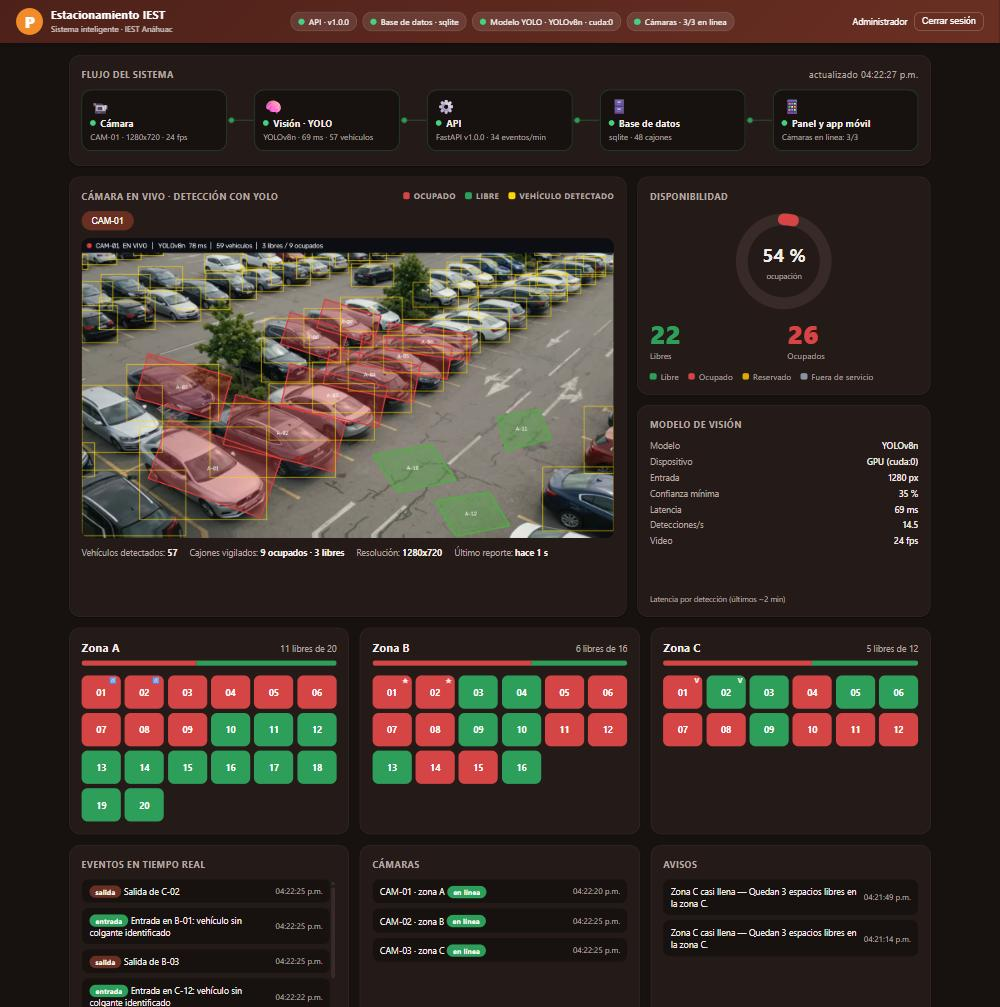
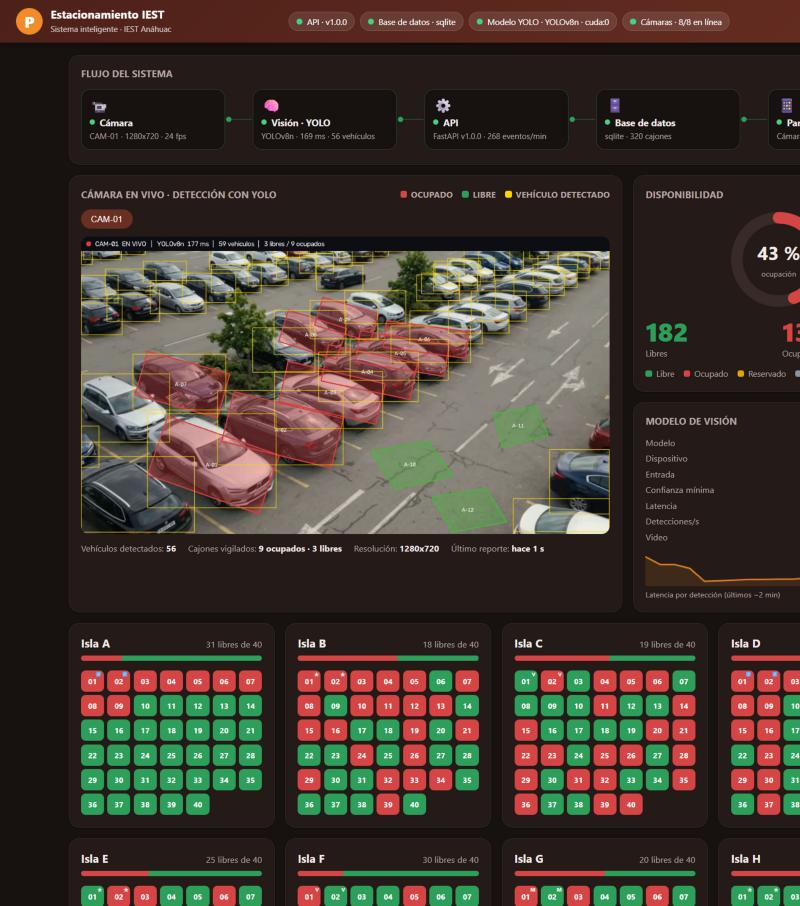
feat: el estacionamiento pasa a 8 islas de 40 cajones
Datos iniciales con 8 islas (A a H) de 40 cajones cada una (320 en total) y una
cámara por isla (CAM-01 a CAM-08). La app móvil, el panel y los avisos hablan
de islas; el panel ajusta la cuadrícula a 40 cajones por isla. Pruebas y
documentación actualizadas.

diff --git a/api/app/static/panel.html b/api/app/static/panel.html
@@ -78,16 +78,16 @@
   .modelo canvas { width: 100%; height: 54px; margin-top: 12px; display: block; }
 
   /* ---------- mapa ---------- */
-  .zonas { display: grid; grid-template-columns: repeat(auto-fit, minmax(300px, 1fr)); gap: 16px; }
+  .zonas { display: grid; grid-template-columns: repeat(auto-fit, minmax(290px, 1fr)); gap: 16px; }
   .zona-cab { display: flex; justify-content: space-between; align-items: baseline; margin-bottom: 4px; }
   .zona-cab h3 { font-size: 17px; }
   .zona-cab span { font-size: 13px; color: var(--suave); }
   .barra { height: 8px; border-radius: 5px; background: var(--borde); overflow: hidden; display: flex; margin: 8px 0 14px; }
   .barra i { display: block; height: 100%; transition: width .6s; }
-  .cajones { display: grid; grid-template-columns: repeat(auto-fill, minmax(50px, 1fr)); gap: 6px; }
-  .cajon { height: 50px; border-radius: 9px; color: #fff; font-weight: 700; font-size: 13px; display: grid; place-items: center; position: relative; transition: background .4s, transform .2s; cursor: default; }
+  .cajones { display: grid; grid-template-columns: repeat(auto-fill, minmax(32px, 1fr)); gap: 5px; }
+  .cajon { height: 32px; border-radius: 7px; color: #fff; font-weight: 700; font-size: 11.5px; display: grid; place-items: center; position: relative; transition: background .4s, transform .2s; cursor: default; }
   .cajon:hover { transform: scale(1.06); }
-  .cajon small { position: absolute; top: 2px; right: 5px; font-size: 10px; opacity: .9; }
+  .cajon small { position: absolute; top: 0; right: 3px; font-size: 8px; opacity: .9; }
   .libre { background: var(--libre); } .ocupado { background: var(--ocupado); } .reservado { background: var(--reservado); } .fuera_de_servicio { background: var(--fuera); }
   .cajon.cambio { animation: destello 2.4s ease-out; }
   @keyframes destello { 0% { box-shadow: 0 0 0 0 var(--naranja); transform: scale(1.18); } 60% { box-shadow: 0 0 0 9px #f28c2800; } 100% { transform: scale(1); } }
@@ -288,7 +288,7 @@ function pintarEspacios(espacios) {
   const zonas = $("zonas"); zonas.replaceChildren();
   for (const z of [...new Set(espacios.map((e) => e.zona))].sort()) {
     const lista = espacios.filter((e) => e.zona === z), lib = lista.filter((e) => e.estado === "libre").length, oc = lista.filter((e) => e.estado === "ocupado").length;
-    const t = el("div", "tarjeta"); const cab = el("div", "zona-cab"); cab.append(el("h3", null, "Zona " + z), el("span", null, `${lib} libres de ${lista.length}`)); t.append(cab);
+    const t = el("div", "tarjeta"); const cab = el("div", "zona-cab"); cab.append(el("h3", null, "Isla " + z), el("span", null, `${lib} libres de ${lista.length}`)); t.append(cab);
     const barra = el("div", "barra"); const b1 = el("i"); b1.style.cssText = `width:${(oc / lista.length) * 100}%;background:var(--ocupado)`; const b2 = el("i"); b2.style.cssText = `width:${(lib / lista.length) * 100}%;background:var(--libre)`; barra.append(b1, b2); t.append(barra);
     const g = el("div", "cajones");
     for (const e of lista) {
@@ -312,7 +312,7 @@ function pintarListas(avisos, eventos, camaras) {
     tarjeta("Eventos en tiempo real", lis, "Aún no hay eventos.");
   }
   if (camaras) {
-    tarjeta("Cámaras", camaras.map((c) => { const li = el("li"); const ins = el("span", "insignia", c.estado === "en_linea" ? "en línea" : "desconectada"); ins.style.background = c.estado === "en_linea" ? "#2e9e5b" : "#d64545"; const iz = el("span", null, `${c.camara} · zona ${c.zona} `); iz.append(ins); li.append(iz, el("time", null, hora(c.ultimaSenal))); return li; }), "Sin cámaras.");
+    tarjeta("Cámaras", camaras.map((c) => { const li = el("li"); const ins = el("span", "insignia", c.estado === "en_linea" ? "en línea" : "desconectada"); ins.style.background = c.estado === "en_linea" ? "#2e9e5b" : "#d64545"; const iz = el("span", null, `${c.camara} · isla ${c.zona} `); iz.append(ins); li.append(iz, el("time", null, hora(c.ultimaSenal))); return li; }), "Sin cámaras.");
   }
   tarjeta("Avisos", avisos.slice(0, 8).map((a) => { const li = el("li"); li.append(el("span", null, a.titulo + " — " + a.mensaje), el("time", null, hora(a.fecha))); return li; }), "No hay avisos.");
 }
@@ -322,7 +322,7 @@ async function cicloRapido() {   // cada 2 s: estado del sistema y mapa
   const [yo, estado, espacios] = await Promise.all([api("/auth/me"), api("/sistema/estado"), api("/espacios")]);
   $("quien").textContent = yo.nombre; $("salir").hidden = false;
   pintarChips(estado); pintarFlujo(estado); pintarVideo(estado); pintarEspacios(espacios);
-  $("pie").textContent = "Actualizado " + new Date().toLocaleTimeString("es-MX") + " · el mapa se refresca cada 2 s";
+  $("pie").textContent = "Actualizado " + new Date().toLocaleTimeString("es-MX") + " · el mapa de las islas se refresca cada 2 s";
 }
 async function cicloLento() {    // cada 4 s: listas
   const [avisos, eventos, camaras] = await Promise.all([api("/notificaciones"), api("/eventos?limit=14"), api("/camaras")]);

diff --git a/mobile/src/data/mock.ts b/mobile/src/data/mock.ts
@@ -1,10 +1,8 @@
 import { AlertaCamara, Espacio, Evento, EstadoEspacio, Notificacion, TipoEspacio, Usuario, Vehiculo } from '../types';
 
-const zonas = [
-  { zona: 'A', cantidad: 20, tipoEspecial: 'discapacidad' as TipoEspacio },
-  { zona: 'B', cantidad: 16, tipoEspecial: 'directivo' as TipoEspacio },
-  { zona: 'C', cantidad: 12, tipoEspecial: 'visitante' as TipoEspacio },
-];
+// 8 islas de 40 cajones (igual que la base de datos inicial); los 2 primeros de cada isla son de un tipo especial.
+const especial: TipoEspacio[] = ['discapacidad', 'directivo', 'visitante', 'discapacidad', 'directivo', 'visitante', 'motocicleta', 'directivo'];
+const zonas = 'ABCDEFGH'.split('').map((zona, i) => ({ zona, cantidad: 40, tipoEspecial: especial[i] }));
 
 // Estado pseudo-aleatorio pero estable (para que la UI no cambie en cada render)
 const estadoDe = (n: number): EstadoEspacio => {
@@ -42,7 +40,7 @@ export const vehiculos: Vehiculo[] = [
 ];
 
 export const notificaciones: Notificacion[] = [
-  { id: 1, titulo: 'Zona A casi llena', mensaje: 'Quedan menos de 3 espacios libres en la zona A.', fecha: new Date(Date.now() - 12 * 60_000).toISOString(), leida: false },
+  { id: 1, titulo: 'Isla A casi llena', mensaje: 'Quedan menos de 3 espacios libres en la isla A.', fecha: new Date(Date.now() - 12 * 60_000).toISOString(), leida: false },
   { id: 2, titulo: 'Espacio asignado', mensaje: 'Tu espacio asignado es A-03.', fecha: new Date(Date.now() - 26 * 3600_000).toISOString(), leida: true },
 ];
 
@@ -53,8 +51,10 @@ export const eventos: Evento[] = [
   { id: 4, tipo: 'salida', descripcion: 'Salida vehículo colgante IEST-001873', fecha: new Date(Date.now() - 55 * 60_000).toISOString() },
 ];
 
-export const alertasCamara: AlertaCamara[] = [
-  { id: 1, camara: 'CAM-01', zona: 'A', estado: 'en_linea', ultimaSenal: new Date().toISOString() },
-  { id: 2, camara: 'CAM-02', zona: 'B', estado: 'en_linea', ultimaSenal: new Date().toISOString() },
-  { id: 3, camara: 'CAM-03', zona: 'C', estado: 'desconectada', ultimaSenal: new Date(Date.now() - 3 * 3600_000).toISOString() },
-];
+export const alertasCamara: AlertaCamara[] = 'ABCDEFGH'.split('').map((zona, i) => ({
+  id: i + 1,
+  camara: `CAM-${String(i + 1).padStart(2, '0')}`,
+  zona,
+  estado: i === 2 ? 'desconectada' : 'en_linea',
+  ultimaSenal: new Date(Date.now() - (i === 2 ? 3 * 3600_000 : 0)).toISOString(),
+}));

diff --git a/mobile/src/screens/ZonesScreen.tsx b/mobile/src/screens/ZonesScreen.tsx
@@ -28,7 +28,7 @@ export default function ZonesScreen() {
             <View style={s.chips}>
               {zonas.map((z) => (
                 <Pressable key={z} onPress={() => setZona(z)} style={[s.chip, z === actual && s.chipOn]}>
-                  <Text style={[s.chipText, z === actual && { color: '#fff' }]}>Zona {z}</Text>
+                  <Text style={[s.chipText, z === actual && { color: '#fff' }]}>Isla {z}</Text>
                 </Pressable>
               ))}
             </View>
@@ -51,12 +51,12 @@ export default function ZonesScreen() {
 }
 
 const s = StyleSheet.create({
-  chips: { flexDirection: 'row', gap: spacing.sm },
+  chips: { flexDirection: 'row', flexWrap: 'wrap', gap: spacing.sm },
   chip: { paddingHorizontal: 16, paddingVertical: 8, borderRadius: 999, backgroundColor: colors.card, borderWidth: 1, borderColor: colors.border },
   chipOn: { backgroundColor: colors.primary, borderColor: colors.primary },
   chipText: { fontWeight: '600', color: colors.text },
   grid: { flexDirection: 'row', flexWrap: 'wrap', gap: spacing.sm },
-  cell: { width: 56, height: 64, borderRadius: radius.sm, alignItems: 'center', justifyContent: 'center' },
+  cell: { width: 40, height: 46, borderRadius: radius.sm, alignItems: 'center', justifyContent: 'center' },
   cellNum: { color: '#fff', fontWeight: '800', fontSize: 16 },
   cellTipo: { color: '#fff', fontSize: 12 },
 });

diff --git a/mobile/src/navigation/index.tsx b/mobile/src/navigation/index.tsx
@@ -39,7 +39,7 @@ export default function Navigation() {
         }}
       >
         <Tab.Screen name="Inicio" component={HomeScreen} options={{ tabBarIcon: icon('speedometer-outline') }} />
-        <Tab.Screen name="Zonas" component={ZonesScreen} options={{ tabBarIcon: icon('grid-outline') }} />
+        <Tab.Screen name="Islas" component={ZonesScreen} options={{ tabBarIcon: icon('grid-outline') }} />
         <Tab.Screen name="Avisos" component={NotificationsScreen} options={{ tabBarIcon: icon('notifications-outline') }} />
         <Tab.Screen name="Mi cuenta" component={VehicleScreen} options={{ tabBarIcon: icon('car-outline') }} />
         {esAdmin(usuario) ? <Tab.Screen name="Admin" component={AdminScreen} options={{ tabBarIcon: icon('shield-checkmark-outline') }} /> : null}

diff --git a/mobile/src/screens/HomeScreen.tsx b/mobile/src/screens/HomeScreen.tsx
@@ -33,11 +33,11 @@ export default function HomeScreen() {
                 <Text style={s.assigned}>{usuario.espacioAsignado}</Text>
               </Card>
             ) : null}
-            <Title>Por zona</Title>
+            <Title>Por isla</Title>
             {zonas.map((z) => (
               <Card key={z.zona} style={{ gap: spacing.sm }}>
                 <View style={s.row}>
-                  <Text style={s.zone}>Zona {z.zona}</Text>
+                  <Text style={s.zone}>Isla {z.zona}</Text>
                   <Text style={[s.free, z.libres === 0 && { color: colors.occupied }]}>{z.libres} libres</Text>
                 </View>
                 <OccupancyBar libres={z.libres} ocupados={z.ocupados} total={z.total} />

diff --git a/mobile/src/screens/AdminScreen.tsx b/mobile/src/screens/AdminScreen.tsx
@@ -43,7 +43,7 @@ function Camaras() {
           <Card key={c.id} style={{ gap: 6 }}>
             <View style={s.row}>
               <Text style={s.cam}>
-                {c.camara} · Zona {c.zona}
+                {c.camara} · Isla {c.zona}
               </Text>
               <Badge text={c.estado === 'en_linea' ? 'En línea' : 'Desconectada'} color={c.estado === 'en_linea' ? colors.free : colors.occupied} />
             </View>

diff --git a/scripts/iniciar_demo.py b/scripts/iniciar_demo.py
@@ -6,8 +6,8 @@
 Qué arranca (y se detiene todo junto con Ctrl+C):
   1. La API (FastAPI) con una base SQLite local.
   2. El servidor de visión en modo demostración: procesa un video como si fuera una cámara fija, detecta vehículos
-     con YOLO, publica la ocupación de la zona A en la API y emite el video anotado.
-  3. Un simulador que mueve vehículos en las zonas B y C para que haya eventos en vivo.
+     con YOLO, publica la ocupación de la isla A en la API y emite el video anotado.
+  3. Un simulador que mueve vehículos en las islas B a H para que haya eventos en vivo.
 
 La primera vez prepara lo que falta: .env con claves aleatorias, base de datos con usuarios de demostración
 (se guardan en credenciales_demo.txt, que no se sube a git), el video estabilizado y el modelo YOLO (~6 MB).
@@ -107,7 +107,7 @@ def main() -> None:
         if not esperar(f"{api}/health"):
             raise SystemExit("La API no arrancó (¿el puerto está ocupado?)")
         procesos.append(subprocess.Popen([PY, "-m", "parking_vision.demo_server", "--config", "../demo/cameras_demo.json", "--puerto", str(args.puerto_video)], cwd=ROOT / "vision", env={**ENV, "API_URL": api}))
-        procesos.append(subprocess.Popen([PY, str(ROOT / "scripts" / "simulate_cameras.py"), "--api", api, "--interval", "3", "--zonas", "B,C"], env=ENV, stdout=subprocess.DEVNULL))
+        procesos.append(subprocess.Popen([PY, str(ROOT / "scripts" / "simulate_cameras.py"), "--api", api, "--interval", "3", "--zonas", "B,C,D,E,F,G,H"], env=ENV, stdout=subprocess.DEVNULL))
         esperar(f"http://127.0.0.1:{args.puerto_video}/estado", 120)
         url = f"{api.replace('127.0.0.1', 'localhost')}/panel"
         print(f"\nDemostración lista: {url}\nUsuarios y claves: credenciales_demo.txt\nCtrl+C para detener todo.\n")

diff --git a/api/tests/test_admin.py b/api/tests/test_admin.py
@@ -78,21 +78,21 @@ def test_aviso_manual_y_visibilidad(client):
     assert demo["id"]  # el usuario demo existe y solo ve los suyos + los generales
 
 
-def test_aviso_automatico_zona_casi_llena_y_llena(client):
+def test_aviso_automatico_isla_casi_llena_y_llena(client):
     h = admin_headers(client)
 
     def ocupar(numeros, ocupado=True):
         return client.post("/ingest/ocupacion", headers=KEY, json={"camara": "CAM-03", "espacios": [{"numero": n, "ocupado": ocupado} for n in numeros]})
 
-    zona_c = [f"C-{i:02d}" for i in range(1, 13)]  # 12 cajones
-    ocupar(zona_c[:8])  # quedan 4 libres: aún sin aviso
+    isla_c = [f"C-{i:02d}" for i in range(1, 41)]  # 40 cajones
+    ocupar(isla_c[:36])  # quedan 4 libres: aún sin aviso
     assert not [n for n in client.get("/notificaciones", headers=h).json() if "casi llena" in n["titulo"]]
-    ocupar(zona_c[8:9])  # quedan 3 -> casi llena
-    ocupar(zona_c[9:10])  # quedan 2 -> no repite el aviso
+    ocupar(isla_c[36:37])  # quedan 3 -> casi llena
+    ocupar(isla_c[37:38])  # quedan 2 -> no repite el aviso
     avisos = [n["titulo"] for n in client.get("/notificaciones", headers=h).json()]
-    assert avisos.count("Zona C casi llena") == 1
-    ocupar(zona_c[10:])  # 0 libres -> llena
-    assert "Zona C llena" in [n["titulo"] for n in client.get("/notificaciones", headers=h).json()]
+    assert avisos.count("Isla C casi llena") == 1
+    ocupar(isla_c[38:])  # 0 libres -> llena
+    assert "Isla C llena" in [n["titulo"] for n in client.get("/notificaciones", headers=h).json()]
 
 
 def test_fechas_salen_con_zona_horaria_utc(client):

diff --git a/api/app/seed.py b/api/app/seed.py
@@ -17,16 +17,19 @@ from .db import Base, engine
 from .models import (Camara, Colgante, Espacio, EstadoCamara, Rol, TipoColgante, TipoEspacio, Usuario, Vehiculo, Zona)
 from .security import hash_password
 
-ZONAS = [  # (zona, cámara, cantidad, tipo de los primeros 2 cajones)
-    ("A", "CAM-01", 20, TipoEspacio.discapacidad),
-    ("B", "CAM-02", 16, TipoEspacio.directivo),
-    ("C", "CAM-03", 12, TipoEspacio.visitante),
-]
+# El estacionamiento son 8 islas (las "zonas" del modelo de datos) de 40 cajones, cada una vigilada por una cámara:
+# 8 x 40 = 320 cajones. Los 2 primeros cajones de cada isla son de un tipo especial.
+CAJONES_POR_ISLA = 40
+_ESPECIAL = {
+    "A": TipoEspacio.discapacidad, "B": TipoEspacio.directivo, "C": TipoEspacio.visitante, "D": TipoEspacio.discapacidad,
+    "E": TipoEspacio.directivo, "F": TipoEspacio.visitante, "G": TipoEspacio.motocicleta, "H": TipoEspacio.directivo,
+}
+ZONAS = [(isla, f"CAM-{i:02d}", CAJONES_POR_ISLA, _ESPECIAL[isla]) for i, isla in enumerate("ABCDEFGH", start=1)]  # (isla, cámara, cajones, tipo especial)
 
 
 def seed_base(db: Session) -> None:
     for nombre, cam, cantidad, especial in ZONAS:
-        zona = db.scalar(select(Zona).where(Zona.nombre == nombre)) or Zona(nombre=nombre, descripcion=f"Zona {nombre}")
+        zona = db.scalar(select(Zona).where(Zona.nombre == nombre)) or Zona(nombre=nombre, descripcion=f"Isla {nombre}")
         db.add(zona)
         db.flush()
         camara = db.scalar(select(Camara).where(Camara.codigo == cam)) or Camara(codigo=cam, zona_id=zona.id, estado=EstadoCamara.desconectada)

diff --git a/tests/e2e/test_pipeline.py b/tests/e2e/test_pipeline.py
@@ -130,14 +130,14 @@ def test_camara_sin_senal_genera_alerta(api, escena):
         detener(w)
 
 
-def test_aviso_cuando_la_zona_se_llena(api, escena):
-    """Zona C (12 cajones): al ocuparse los últimos, todos reciben el aviso en la app."""
+def test_aviso_cuando_la_isla_se_llena(api, escena):
+    """Isla C (40 cajones): al ocuparse los últimos, todos reciben el aviso en la app."""
     admin, demo = api.admin, api.demo
-    numeros = [f"C-{i:02d}" for i in range(1, 13)]
+    numeros = [f"C-{i:02d}" for i in range(1, 41)]
     api.post("/ingest/ocupacion", api.key, {"camara": "CAM-02", "espacios": []})  # CAM-02 en línea
     api.post("/ingest/ocupacion", api.key, {"camara": "CAM-03", "espacios": [{"numero": n, "ocupado": True} for n in numeros]})
     titulos = [n["titulo"] for n in api.get("/notificaciones", demo)]
-    assert "Zona C llena" in titulos
+    assert "Isla C llena" in titulos
     api.post("/ingest/ocupacion", api.key, {"camara": "CAM-03", "espacios": [{"numero": n, "ocupado": False} for n in numeros]})
     assert set(api.estados(admin)[n] for n in numeros) == {"libre"}
 

diff --git a/api/app/routers/ingest.py b/api/app/routers/ingest.py
@@ -29,9 +29,9 @@ def _avisar_cambio_de_zona(db: Session, zona_id: int, antes: int, despues: int) 
     """Notifica a todos cuando una zona se llena o queda casi llena (solo al cruzar el umbral)."""
     zona = db.get(Zona, zona_id)
     if despues == 0 and antes > 0:
-        db.add(Notificacion(titulo=f"Zona {zona.nombre} llena", mensaje=f"Ya no hay espacios libres en la zona {zona.nombre}."))
+        db.add(Notificacion(titulo=f"Isla {zona.nombre} llena", mensaje=f"Ya no hay espacios libres en la isla {zona.nombre}."))
     elif 0 < despues <= UMBRAL_CASI_LLENA < antes:
-        db.add(Notificacion(titulo=f"Zona {zona.nombre} casi llena", mensaje=f"Quedan {despues} espacios libres en la zona {zona.nombre}."))
+        db.add(Notificacion(titulo=f"Isla {zona.nombre} casi llena", mensaje=f"Quedan {despues} espacios libres en la isla {zona.nombre}."))
 
 
 def _marcar_en_linea(db: Session, cam: Camara) -> None:

diff --git a/api/tests/test_api.py b/api/tests/test_api.py
@@ -25,8 +25,8 @@ def test_roles_en_endpoints_de_admin(client):
 def test_consultas_de_la_app(client):
     h = login(client, "demo@iest.edu.mx", "demo-pass-123")
     espacios = client.get("/espacios", headers=h).json()
-    assert len(espacios) == 48 and {"id", "numero", "zona", "tipo", "estado"} <= espacios[0].keys()
-    assert len(client.get("/espacios?zona=C", headers=h).json()) == 12
+    assert len(espacios) == 320 and {"id", "numero", "zona", "tipo", "estado"} <= espacios[0].keys()
+    assert len(client.get("/espacios?zona=C", headers=h).json()) == 40
     v = client.get("/vehiculos/mios", headers=h).json()
     assert v[0]["colgante"]["codigo"] == "IEST-004512"
 
